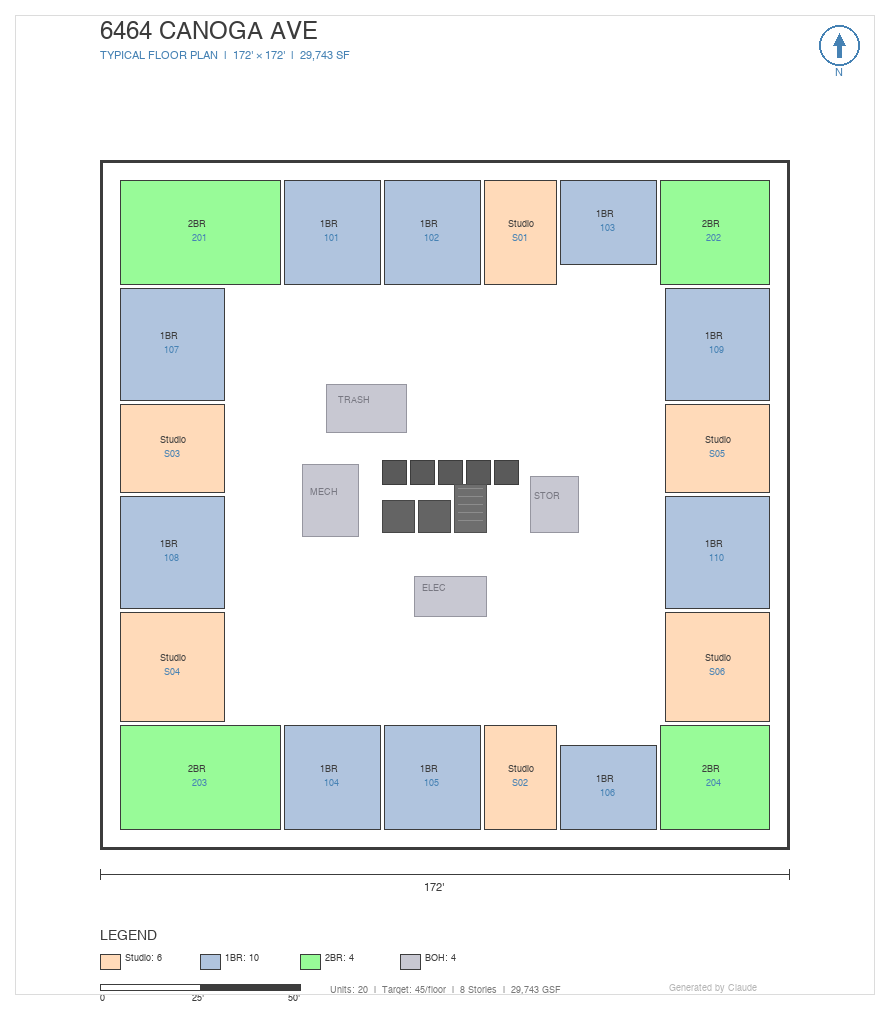
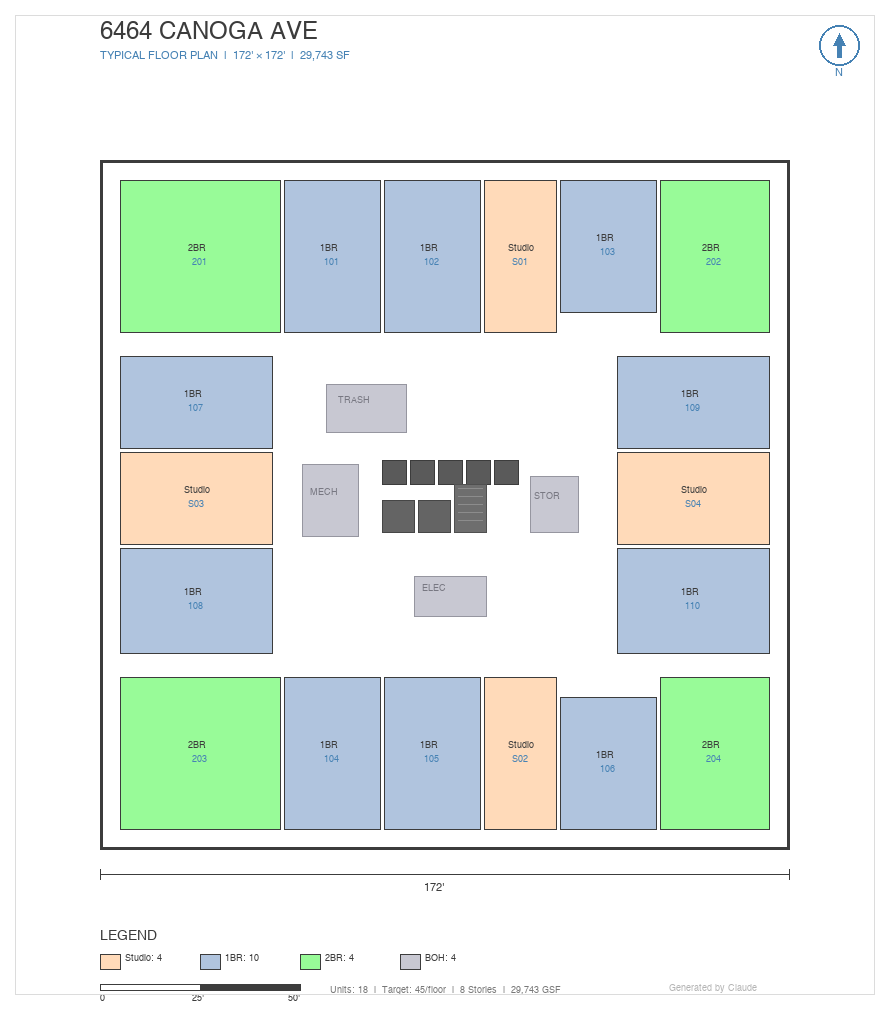
Extend units towards center for better space utilization
- Increased unit depth from 26' to 38'
- Units now reach closer to the core/BOH area
- Adjusted side wing calculations for proper fit
- Maintained door access gaps for all units

🤖 Generated with [Claude Code](https://claude.com/claude-code)

Changed region(s): [[0.1215, 0.2151, 0.8808, 0.7988], [0.4556, 0.2151, 0.4859, 0.2458], [0.3645, 0.2151, 0.3948, 0.2458]]

diff --git a/massing_generator.py b/massing_generator.py
@@ -118,7 +118,7 @@ def create_architectural_floor_plate(building: BuildingSpec, output_path: str = 
 
     # --- UNITS ---
     units = []
-    unit_depth = 26  # Standard residential depth
+    unit_depth = 38  # Extended depth - units reach towards center
     setback = 5  # Edge setback
     party_wall = 1  # Between units
 
@@ -196,36 +196,32 @@ def create_architectural_floor_plate(building: BuildingSpec, output_path: str = 
 
     # --- WEST WING (left side, between N and S wings) ---
     x = setback
-    y_start = setback + unit_depth + party_wall
-    y_end = floor_ft - setback - unit_depth - party_wall
+    y_start = setback + unit_depth + party_wall + door_gap  # Account for door gaps
+    y_end = floor_ft - setback - unit_depth - party_wall - door_gap
     available_height = y_end - y_start
 
     y = y_start
-    # Fill with units stacked vertically
-    place_unit("1BR", x, y, unit_depth, 28)
-    y += 29
-    place_unit("Studio", x, y, unit_depth, 22)
-    y += 23
-    place_unit("1BR", x, y, unit_depth, 28)
-    y += 29
-    # Fill remaining space
+    # Fill with units stacked vertically - use available height
+    unit_h = (available_height - 3) // 3  # Divide into 3 units with gaps
+    place_unit("1BR", x, y, unit_depth, unit_h)
+    y += unit_h + 1
+    place_unit("Studio", x, y, unit_depth, unit_h)
+    y += unit_h + 1
     remaining_h = y_end - y
     if remaining_h > 15:
-        place_unit("Studio", x, y, unit_depth, remaining_h)
+        place_unit("1BR", x, y, unit_depth, remaining_h)
 
     # --- EAST WING (right side) ---
-    x = floor_ft - setback - unit_depth  # Start from right edge minus unit depth
+    x = floor_ft - setback - unit_depth
     y = y_start
 
-    place_unit("1BR", x, y, unit_depth, 28)
-    y += 29
-    place_unit("Studio", x, y, unit_depth, 22)
-    y += 23
-    place_unit("1BR", x, y, unit_depth, 28)
-    y += 29
+    place_unit("1BR", x, y, unit_depth, unit_h)
+    y += unit_h + 1
+    place_unit("Studio", x, y, unit_depth, unit_h)
+    y += unit_h + 1
     remaining_h = y_end - y
     if remaining_h > 15:
-        place_unit("Studio", x, y, unit_depth, remaining_h)
+        place_unit("1BR", x, y, unit_depth, remaining_h)
 
     # --- BOH (Back of House) spaces around core ---
     boh_color = (200, 200, 210)  # Light grayish blue for BOH
